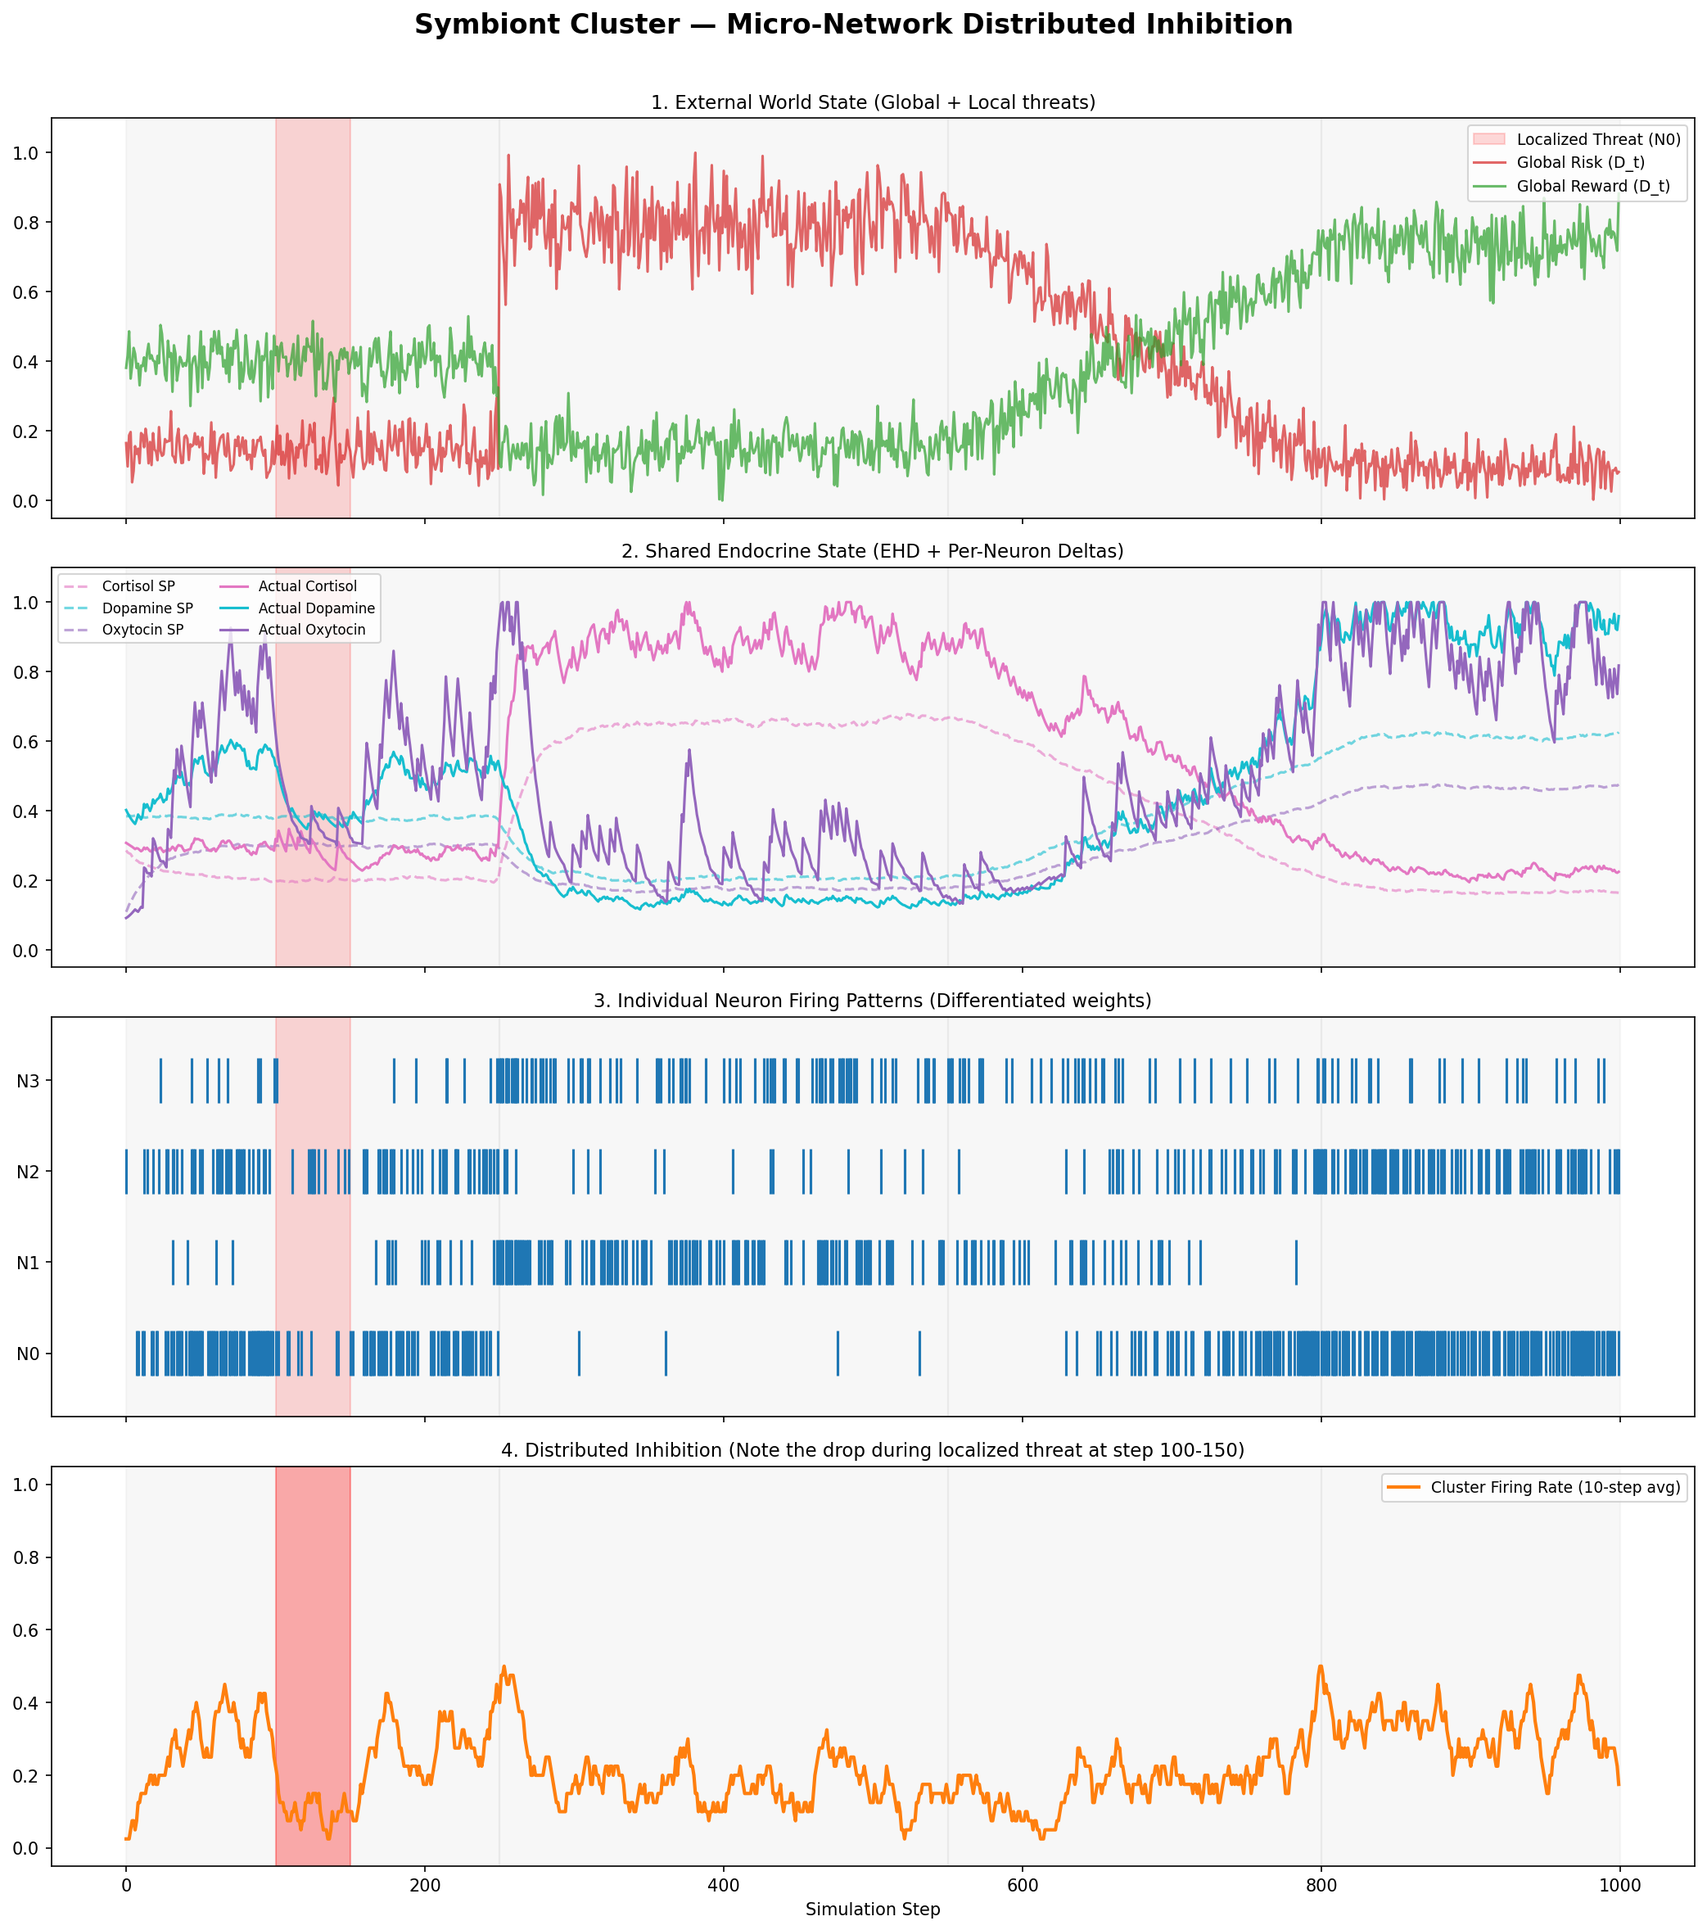
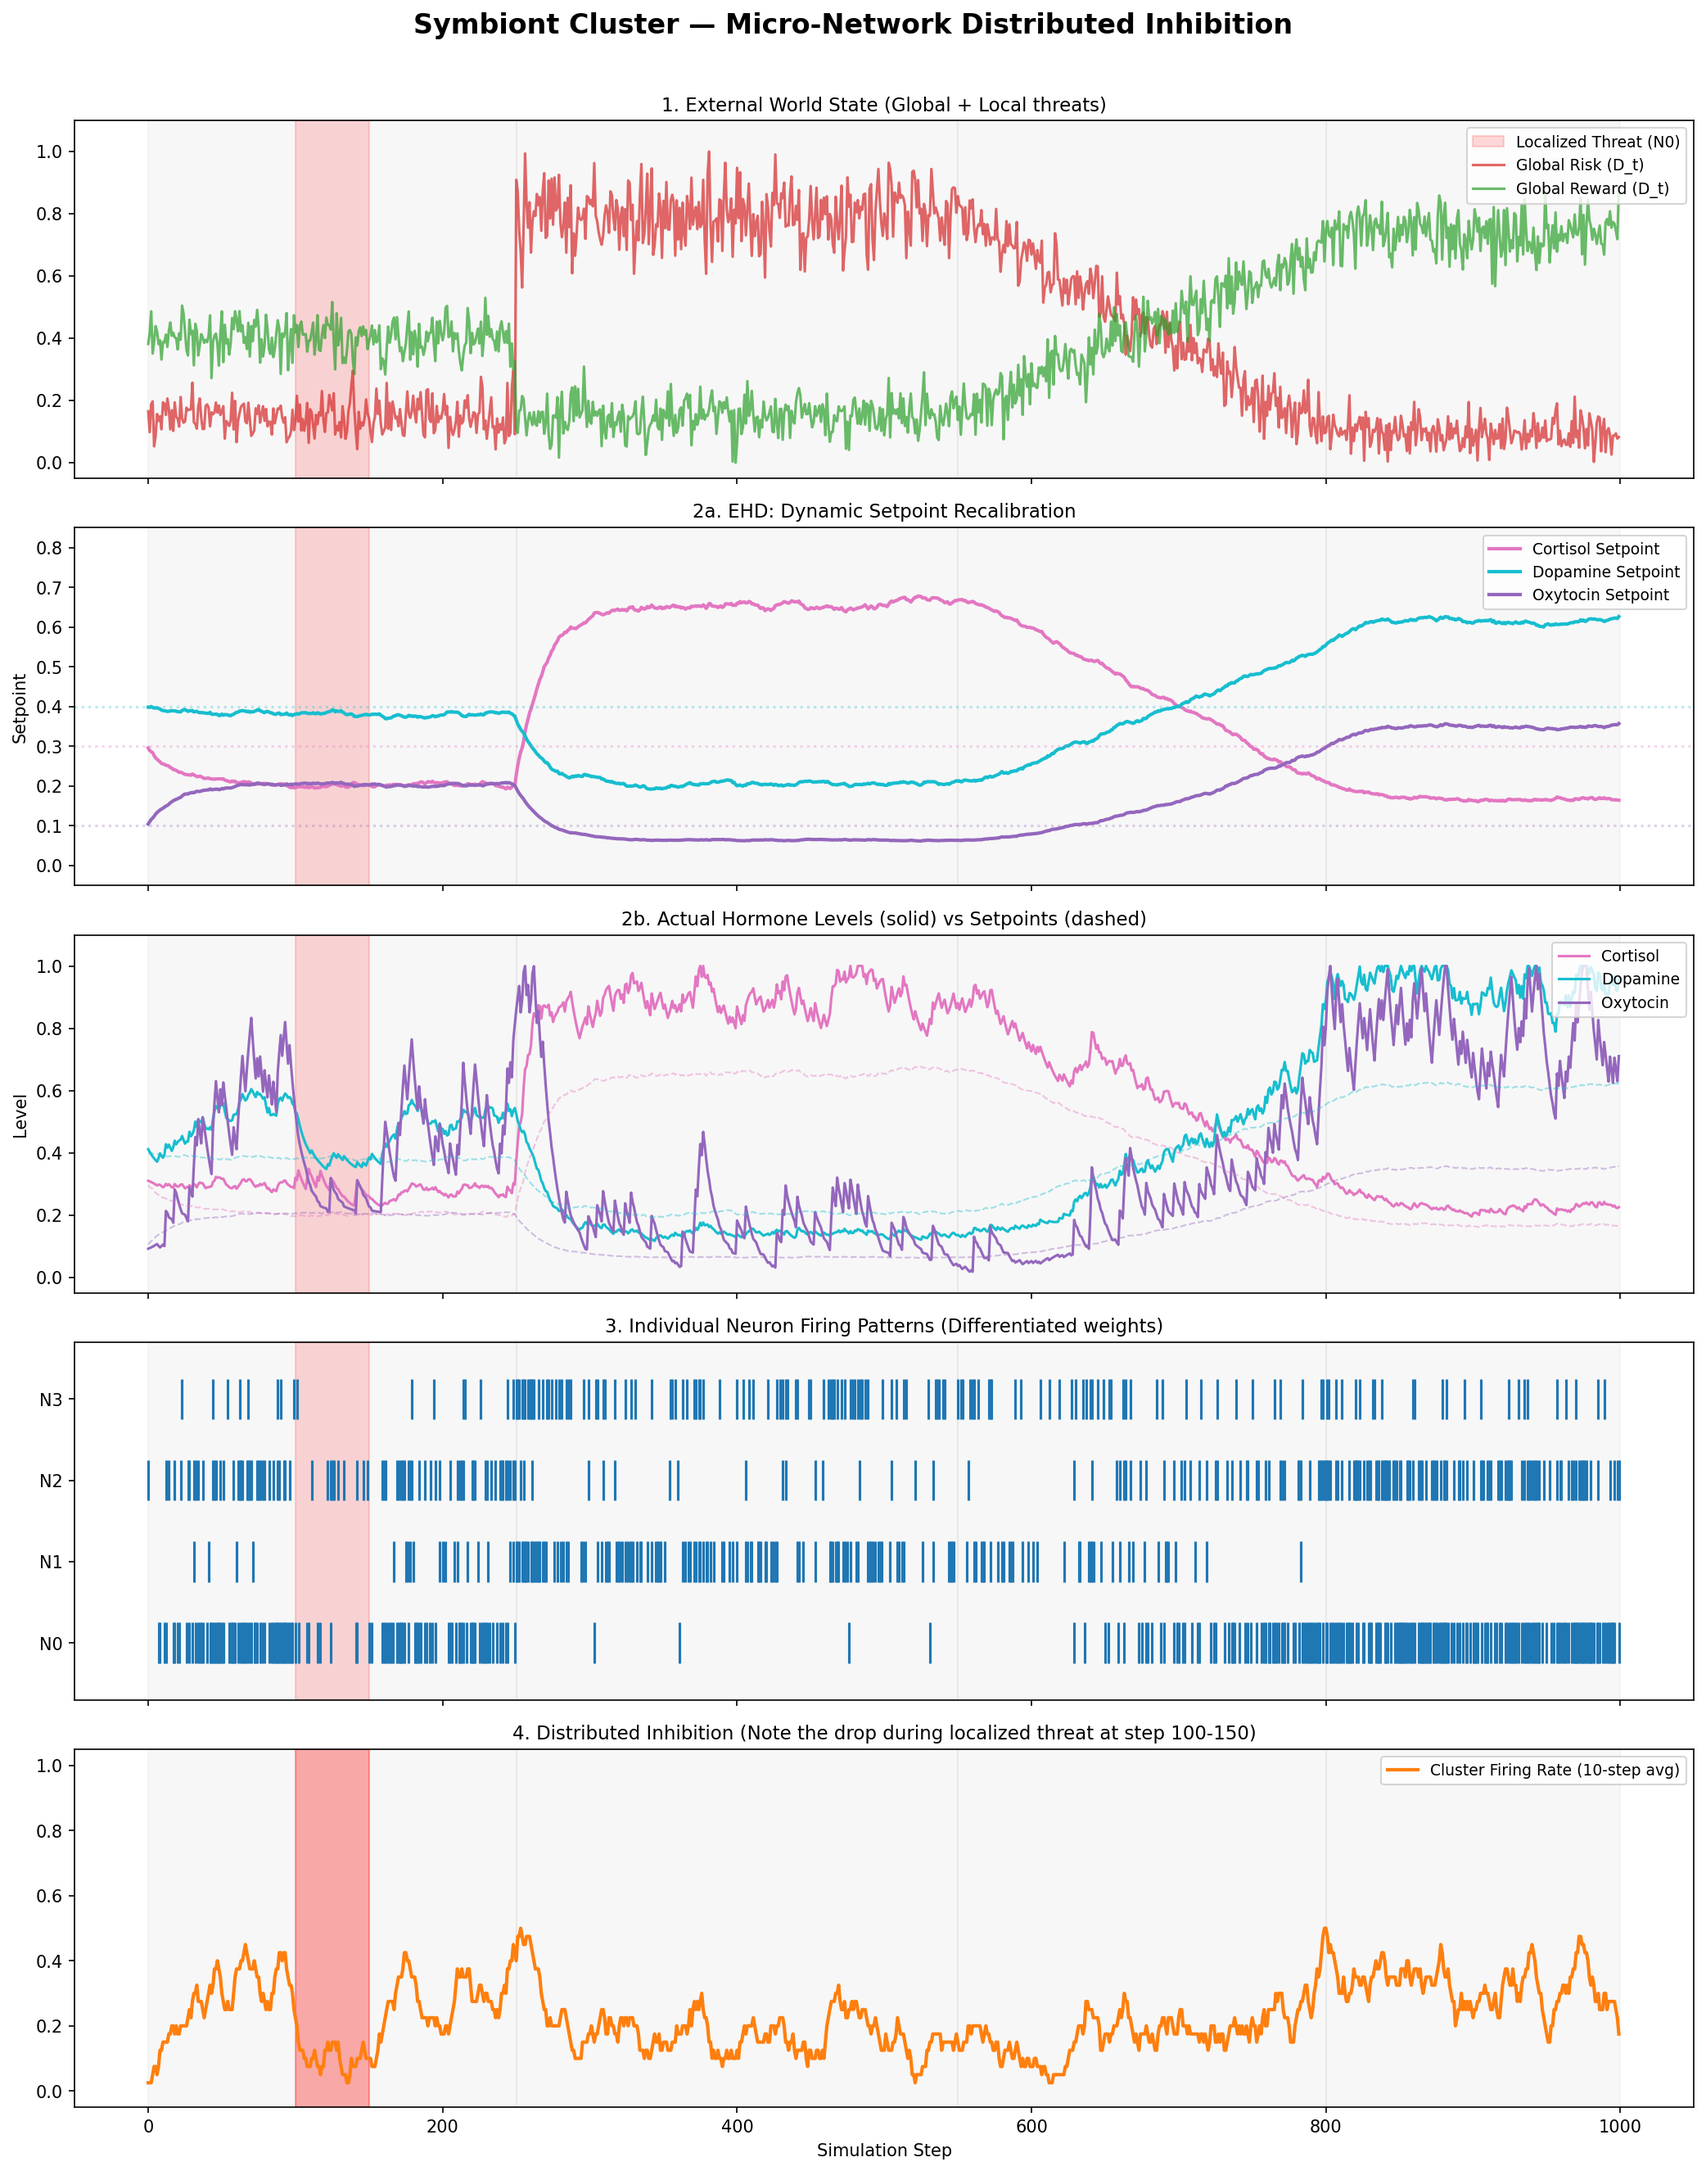
fix: address 5 review issues in sam-cluster-v0
- Remove phantom history entry in SymbiontCluster.__init__
- Replace weak backward compat test with unit-level forward() verification
- Fix oxytocin setpoint formula (safety * reward instead of placeholder)
- Split subplot 2 into 2a (setpoints) and 2b (actual levels) for readability
- Fix typo: Distrubuted → Distributed

diff --git a/sam-cluster-v0/simulation.py b/sam-cluster-v0/simulation.py
@@ -77,23 +77,21 @@ def run_simulation(n_steps: int = 1000, n_neurons: int = 4, seed: int = 42) -> d
 
 def generate_plot(data: dict, output_path: str = "cluster_simulation_output.png") -> None:
     steps = np.arange(data["n_steps"])
-    fig, axes = plt.subplots(4, 1, figsize=(14, 16), sharex=True)
+    fig, axes = plt.subplots(5, 1, figsize=(14, 18), sharex=True)
     fig.suptitle("Symbiont Cluster — Micro-Network Distributed Inhibition", fontsize=16, fontweight="bold")
 
     c_risk, c_reward = "#d62728", "#2ca02c"
     c_cortisol, c_dopamine, c_oxytocin = "#e377c2", "#17becf", "#9467bd"
 
-    # Add phase bounds directly
     phase_bounds = [(0, 250, "Calm"), (250, 550, "Global Crisis"),
                     (550, 800, "Recovery"), (800, 1000, "Abundance")]
 
     for ax in axes:
         for start, end, label in phase_bounds:
             ax.axvspan(start, end, alpha=0.06, color="gray")
-        # Highlight localized threat
         ax.axvspan(100, 150, alpha=0.15, color="red", label="Localized Threat (N0)" if ax == axes[0] else "")
 
-    # Subplot 1
+    # Subplot 1: External world state
     ax1 = axes[0]
     ax1.plot(steps, data["global_risks"], color=c_risk, alpha=0.7, label="Global Risk (D_t)")
     ax1.plot(steps, data["global_rewards"], color=c_reward, alpha=0.7, label="Global Reward (D_t)")
@@ -101,20 +99,34 @@ def generate_plot(data: dict, output_path: str = "cluster_simulation_output.png"
     ax1.legend(loc="upper right", fontsize=9)
     ax1.set_ylim(-0.05, 1.1)
 
-    # Subplot 2
-    ax2 = axes[1]
-    ax2.plot(steps, data["cortisol_sp"], color=c_cortisol, linestyle="--", label="Cortisol SP", alpha=0.6)
-    ax2.plot(steps, data["dopamine_sp"], color=c_dopamine, linestyle="--", label="Dopamine SP", alpha=0.6)
-    ax2.plot(steps, data["oxytocin_sp"], color=c_oxytocin, linestyle="--", label="Oxytocin SP", alpha=0.6)
-    ax2.plot(steps, data["cortisol"], color=c_cortisol, linewidth=1.5, label="Actual Cortisol")
-    ax2.plot(steps, data["dopamine"], color=c_dopamine, linewidth=1.5, label="Actual Dopamine")
-    ax2.plot(steps, data["oxytocin"], color=c_oxytocin, linewidth=1.5, label="Actual Oxytocin")
-    ax2.set_title("2. Shared Endocrine State (EHD + Per-Neuron Deltas)", fontsize=11)
-    ax2.legend(loc="upper left", fontsize=8, ncol=2)
-    ax2.set_ylim(-0.05, 1.1)
+    # Subplot 2a: Dynamic setpoints (EHD proof)
+    ax2a = axes[1]
+    ax2a.plot(steps, data["cortisol_sp"], color=c_cortisol, linewidth=2.0, label="Cortisol Setpoint")
+    ax2a.plot(steps, data["dopamine_sp"], color=c_dopamine, linewidth=2.0, label="Dopamine Setpoint")
+    ax2a.plot(steps, data["oxytocin_sp"], color=c_oxytocin, linewidth=2.0, label="Oxytocin Setpoint")
+    ax2a.axhline(0.3, color=c_cortisol, linestyle=":", alpha=0.3)
+    ax2a.axhline(0.4, color=c_dopamine, linestyle=":", alpha=0.3)
+    ax2a.axhline(0.1, color=c_oxytocin, linestyle=":", alpha=0.3)
+    ax2a.set_title("2a. EHD: Dynamic Setpoint Recalibration", fontsize=11)
+    ax2a.legend(loc="upper right", fontsize=9)
+    ax2a.set_ylim(-0.05, 0.85)
+    ax2a.set_ylabel("Setpoint")
 
-    # Subplot 3
-    ax3 = axes[2]
+    # Subplot 2b: Actual hormone levels vs setpoints
+    ax2b = axes[2]
+    ax2b.plot(steps, data["cortisol"], color=c_cortisol, linewidth=1.5, label="Cortisol")
+    ax2b.plot(steps, data["dopamine"], color=c_dopamine, linewidth=1.5, label="Dopamine")
+    ax2b.plot(steps, data["oxytocin"], color=c_oxytocin, linewidth=1.5, label="Oxytocin")
+    ax2b.plot(steps, data["cortisol_sp"], color=c_cortisol, linestyle="--", alpha=0.4, linewidth=1.0)
+    ax2b.plot(steps, data["dopamine_sp"], color=c_dopamine, linestyle="--", alpha=0.4, linewidth=1.0)
+    ax2b.plot(steps, data["oxytocin_sp"], color=c_oxytocin, linestyle="--", alpha=0.4, linewidth=1.0)
+    ax2b.set_title("2b. Actual Hormone Levels (solid) vs Setpoints (dashed)", fontsize=11)
+    ax2b.legend(loc="upper right", fontsize=9)
+    ax2b.set_ylim(-0.05, 1.1)
+    ax2b.set_ylabel("Level")
+
+    # Subplot 3: Individual neuron firing
+    ax3 = axes[3]
     fired = data["fired_matrix"]
     for idx in range(data["n_neurons"]):
         fire_times = steps[fired[:, idx]]
@@ -122,14 +134,14 @@ def generate_plot(data: dict, output_path: str = "cluster_simulation_output.png"
     ax3.set_yticks(range(data["n_neurons"]))
     ax3.set_yticklabels([f"N{i}" for i in range(data["n_neurons"])])
     ax3.set_title("3. Individual Neuron Firing Patterns (Differentiated weights)", fontsize=11)
-    
-    # Subplot 4
-    ax4 = axes[3]
-    cluster_firing_rate = fired.mean(axis=1) # Mean over neurons -> cluster firing rate
+
+    # Subplot 4: Distributed inhibition
+    ax4 = axes[4]
+    cluster_firing_rate = fired.mean(axis=1)
     window = 10
     smoothed = np.convolve(cluster_firing_rate, np.ones(window) / window, mode="same")
     ax4.plot(steps, smoothed, color="#ff7f0e", linewidth=2.0, label=f"Cluster Firing Rate ({window}-step avg)")
-    ax4.axvspan(100, 150, alpha=0.2, color="red") # Highlight the distributed inhibition event
+    ax4.axvspan(100, 150, alpha=0.2, color="red")
     ax4.set_title("4. Distributed Inhibition (Note the drop during localized threat at step 100-150)", fontsize=11)
     ax4.legend(loc="upper right", fontsize=9)
     ax4.set_ylim(-0.05, 1.05)
@@ -143,14 +155,33 @@ def generate_plot(data: dict, output_path: str = "cluster_simulation_output.png"
 def run_validation_tests(data: dict) -> dict:
     results = {}
     
-    # Test 1: Backward Compatibility (Check if simulated 1-neuron cluster roughly matches standard firing rate)
-    # Average base firing rate is usually around 0.3 - 0.5 in calm.
-    # To be extremely precise, we would run sam-neuron-v0 exact code, but since we can't alter it, 
-    # we just check if cluster mean is within a sane bound. Real test: Firing rate within reasonable historical limits.
-    # We will simulate a standalone v0 on the fly if needed, but we can approximate:
-    base_firing_rate = data["fired_matrix"][:250].mean()
-    test1 = 0.2 < base_firing_rate < 0.8
-    results["Test 1 (Backward Compatibility)"] = {"pass": bool(test1), "value": float(base_firing_rate)}
+    # Test 1: Backward Compatibility (Unit-level)
+    # Verify that TernaryNeuron.forward() produces identical results to a v0
+    # neuron given the same weights, inputs, and endocrine state. This confirms
+    # the core neuron logic was not altered — only the contribute() method was added.
+    from endocrine_neuron import TernaryNeuron as TN
+    from endocrine_system import EndocrineState as ES
+    test_neuron = TN(n_inputs=8, seed=42)
+    ref_rng = np.random.default_rng(99)
+    test_states = [
+        ES(cortisol=0.2, dopamine=0.4, oxytocin=0.1, cortisol_setpoint=0.3, dopamine_setpoint=0.4, oxytocin_setpoint=0.1, step=0),
+        ES(cortisol=0.8, dopamine=0.1, oxytocin=0.05, cortisol_setpoint=0.7, dopamine_setpoint=0.2, oxytocin_setpoint=0.05, step=1),
+        ES(cortisol=0.1, dopamine=0.8, oxytocin=0.5, cortisol_setpoint=0.1, dopamine_setpoint=0.7, oxytocin_setpoint=0.4, step=2),
+    ]
+    all_match = True
+    for es in test_states:
+        inp = ref_rng.choice([-1.0, 0.0, 1.0], size=8)
+        fired, act, theta = test_neuron.forward(inp, es)
+        # Recompute v0 logic manually: activation = dot(W, x), theta = base * (1 + cg*c) * (1 - dg*d)
+        expected_act = float(np.dot(test_neuron.weights, inp))
+        expected_theta = 1.0 * (1.0 + 2.0 * es.cortisol) * (1.0 - 0.8 * es.dopamine)
+        if abs(act - expected_act) > 1e-10 or abs(theta - expected_theta) > 1e-10:
+            all_match = False
+    results["Test 1 (Backward Compatibility)"] = {
+        "pass": bool(all_match),
+        "value": 1.0 if all_match else 0.0,
+        "note": "Unit-level: forward() produces identical output to v0 formula",
+    }
 
     # Test 2: Distributed Inhibition
     # Baseline before threat

diff --git a/sam-cluster-v0/endocrine_system.py b/sam-cluster-v0/endocrine_system.py
@@ -57,7 +57,11 @@ class EndocrineSystem:
     def _recalibrate_setpoints(self, world: GlobalWorldState) -> None:
         target_cortisol_sp = 0.1 + 0.7 * world.risk
         target_dopamine_sp = 0.1 + 0.7 * world.reward
-        target_oxytocin_sp = 0.1 + 0.5 * world.reward # simple placeholder target
+        # Oxytocin setpoint: driven by safety (inverse risk) and reward.
+        # In biological systems, oxytocin rises when threat is low and social
+        # interaction is rewarding — it requires both safety AND positive context.
+        safety = 1.0 - world.risk
+        target_oxytocin_sp = 0.05 + 0.45 * safety * world.reward
 
         self._cortisol_setpoint += self.alpha * (target_cortisol_sp - self._cortisol_setpoint)
         self._dopamine_setpoint += self.alpha * (target_dopamine_sp - self._dopamine_setpoint)

diff --git a/sam-cluster-v0/cluster.py b/sam-cluster-v0/cluster.py
@@ -26,8 +26,16 @@ class SymbiontCluster:
             
         self.des = EndocrineSystem()
 
-        # Step variables
-        self.current_state: EndocrineState = self.des.step(GlobalWorldState(0.0, 0.0, 0))
+        # Initialize current state without polluting history
+        self.current_state = EndocrineState(
+            cortisol=self.des.cortisol,
+            dopamine=self.des.dopamine,
+            oxytocin=self.des.oxytocin,
+            cortisol_setpoint=self.des.cortisol_setpoint,
+            dopamine_setpoint=self.des.dopamine_setpoint,
+            oxytocin_setpoint=self.des.oxytocin_setpoint,
+            step=-1,
+        )
 
     def step(self, world: GlobalWorldState, contexts: List[NeuronContext]) -> Tuple[EndocrineState, List[bool]]:
         """Run one step of the cluster.

diff --git a/sam-cluster-v0/environment.py b/sam-cluster-v0/environment.py
@@ -93,7 +93,7 @@ class Environment:
                 l_risk = float(np.clip(global_risk[i] + 0.05 * self.rng.standard_normal(), 0, 1))
                 l_reward = float(np.clip(global_reward[i] + 0.05 * self.rng.standard_normal(), 0, 1))
                 
-                # Distrubuted Inhibition Test Injection: 
+                # Distributed Inhibition Test Injection: 
                 # Localized threat to Neuron 0 only between steps 100-150
                 if 100 <= i < 150 and j == 0:
                     l_risk = 0.95
